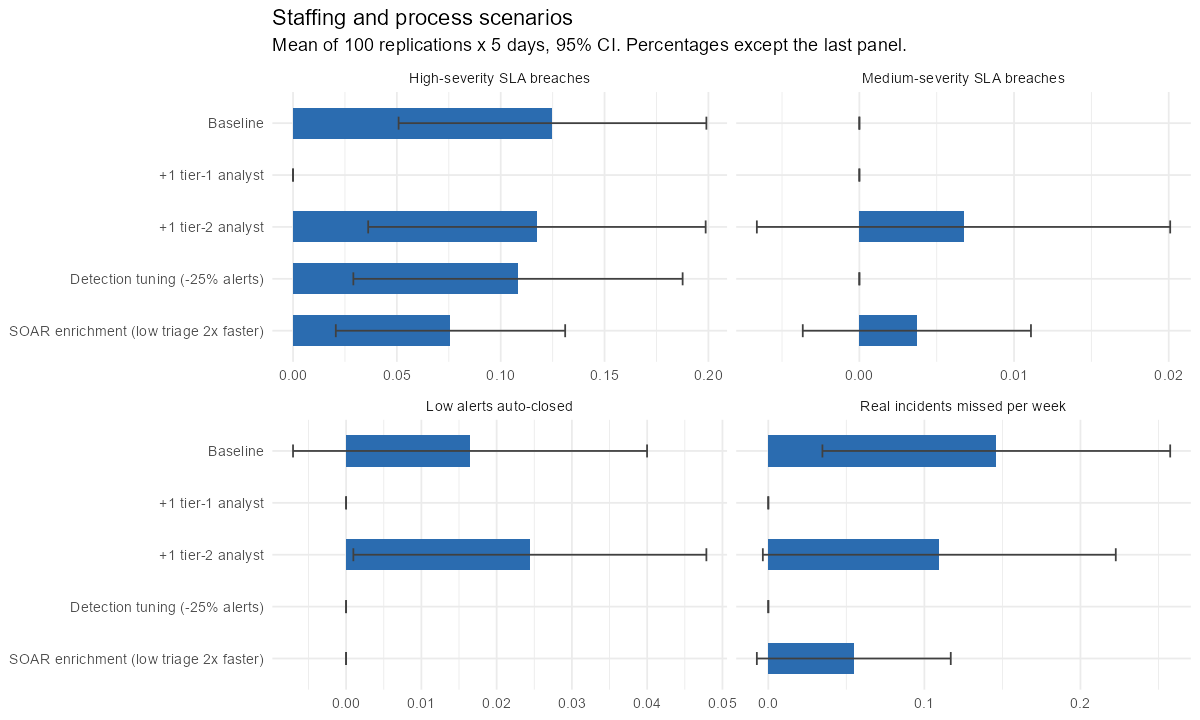
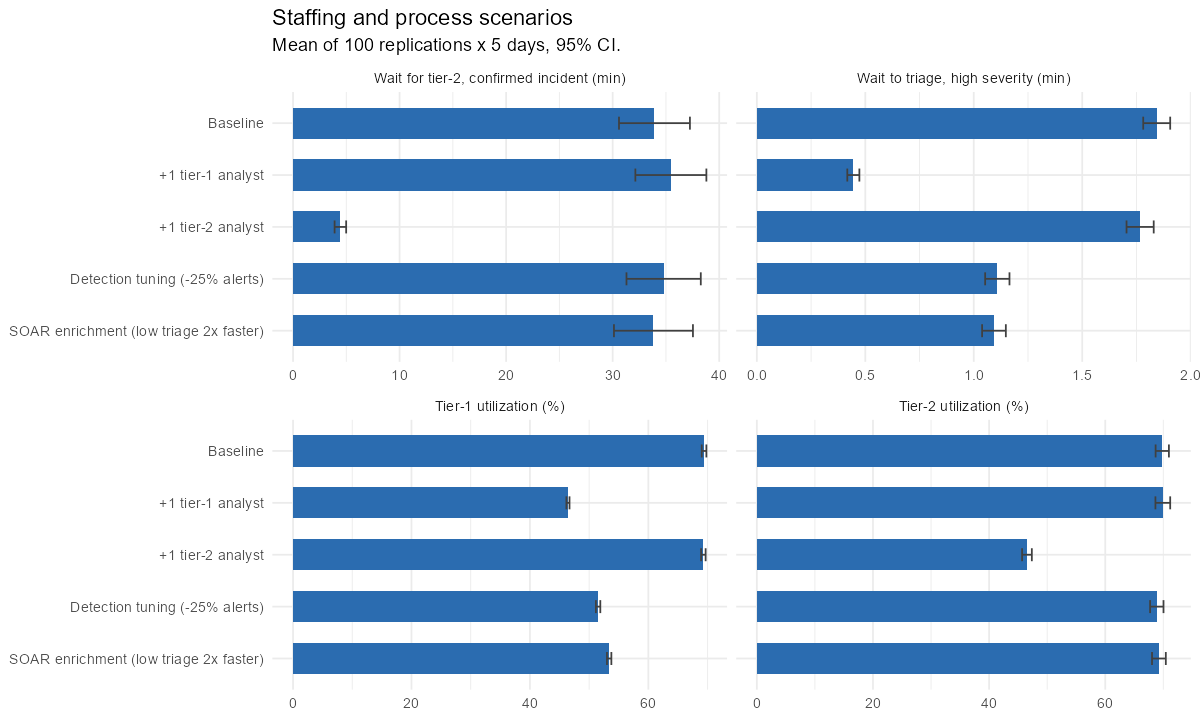
Lead with the stress test, explain the tier-1 gap, validate parameters
- README opens with the stress-test figure; the scenario figure now shows tier-2 wait,
  high-severity wait and utilization instead of four near-zero shares
- explain the simulated tier-1 wait above M/G/c (priority to the longest jobs) and that
  an extra tier-1 analyst raises tier-2 waits
- correct the seeds note: shared seeds, not common random numbers
- state that only low-severity incidents can be missed, the unreachable low SLA, seats vs FTE
- validate_params() before every run, with two tests (13 total)
- no automatic package install; CI lower bounds clipped at zero in results.md

diff --git a/README.md b/README.md
@@ -20,6 +20,10 @@
 - **Priority queuing hides the damage:** fewer than 2% of high-severity alerts are ever triaged late, even at 22/hour. The cost of overload falls on low-severity alerts, up to 76% of which go unreviewed, and on the real incidents among them.
 - **Improved on the coursework:** balking and reneging are now measured directly, rather than inferred from arrivals still in the system. Details: [CHANGELOG.md](CHANGELOG.md).
 
+![Stress test: where each staffing option breaks](docs/figures/stress_test.png)
+
+*Each line is a staffing option (tier-1 + tier-2 analysts); dashed lines are the service targets. Details in [Stress test](#stress-test).*
+
 ---
 
 ## Approach
@@ -60,10 +64,12 @@ flowchart LR
 | Priorities | High > medium > low in both queues (non-preemptive) |
 | Ground truth | Each alert's "real incident" flag is drawn on arrival but only revealed at triage, so the model can count real incidents that were auto-closed or expired: the cost of overload |
 | Run length | 5 days per replication; day 1 discarded as warm-up; alerts from the last 4 hours excluded (outcome not yet known) |
-| Variance reduction | Replication *i* uses the same seed in every scenario (common random numbers) |
+| Seeds | Replication *i* uses the same seed in every scenario. This is not common random numbers: all draws share one random stream in event order, so the scenarios drift apart once staffing changes the order of events. Scenarios are compared on independent confidence intervals |
 | Censoring | An alert still waiting at the end counts as an SLA breach only if it has already waited past the SLA |
+| What can be missed | Only low-severity alerts are auto-closed or expire, so "real incidents missed" means real incidents among low-severity alerts (5% of them). High and medium alerts can only be late. Low alerts expire within 120 minutes, so their 240-minute SLA is never reached |
+| Analysts | "2 + 2" means two analysts on duty in each tier at all times. Covering one seat 24/7 takes about 4.2 full-time staff (8,760 hours a year ÷ 2,080 paid hours, before leave and training), so the baseline is about 17 FTE and each extra seat about 4 more |
 
-All parameters live in [`R/params.R`](R/params.R) and are **illustrative**.
+All parameters live in [`R/params.R`](R/params.R) and are **illustrative**. Every scenario is checked by `validate_params()` ([`R/validate.R`](R/validate.R)) before it runs.
 
 ## Results
 
@@ -95,7 +101,7 @@ Already a useful read: **tier-2 is the slower queue** (36 min average wait for a
 | Tier-1 utilization | 69.4% | 46.4% | 69.3% | 51.5% | 53.4% |
 | Tier-2 utilization | 69.8% | 69.9% | 46.5% | 68.9% | 69.2% |
 
-![Scenario comparison](docs/figures/scenario_comparison.png)
+![Scenario comparison: tier-2 wait, high-severity triage wait and utilization by scenario](docs/figures/scenario_comparison.png)
 
 - **Tier-2 is the bottleneck.** A confirmed incident waits about 34 minutes for an investigator unless tier-2 gets another analyst. Detection tuning and SOAR enrichment cut tier-1 load but don't change the number of real incidents, so they don't help here.
 - **Tier-1 already meets its SLAs.** An extra tier-1 analyst cuts high-severity triage from 1.8 to 0.4 minutes, but high-severity SLA breaches are already only 0.1%.
@@ -112,11 +118,10 @@ The alert rate is swept from 10 to 22 per hour for four staffing options, with e
 | 2 + 3 (+1 tier-2) | 14.4 / 21.4 | 12 | 14 | Missed incidents (7.5/week) |
 | 3 + 3 (+1 each) | 21.6 / 21.4 | **18** | 20 | Tier-2 wait (98 min) and missed incidents (4.1/week) |
 
-"Capacity" is the alert rate at which a tier would be 100% busy if no alert were dropped: 7.2 alerts/hour per tier-1 analyst (8.3 minutes of triage per alert on average) and 7.1 per tier-2 analyst (14% of alerts are real incidents, 60 minutes each).
-
-![Stress test](docs/figures/stress_test.png)
+"Capacity" is the alert rate at which a tier would be 100% busy if no alert were dropped: 7.2 alerts/hour per tier-1 analyst (8.3 minutes of triage per alert on average) and 7.1 per tier-2 analyst (14% of alerts are real incidents, 60 minutes each). The figure is at the top of this page.
 
 - **Fixing one tier exposes the other.** An extra tier-1 analyst buys nothing on its own: tier-2 still breaks at 12 alerts/hour. An extra tier-2 analyst buys one step, to 12/hour; then tier-1 starts auto-closing low-severity alerts and real incidents go with them.
+- **A faster tier-1 makes tier-2 worse.** At 12 alerts/hour a confirmed incident waits 100 minutes for tier-2 with 3 + 2 analysts, against 70 with 2 + 2: the extra tier-1 analyst drops fewer alerts, so more real incidents reach tier-2. The reverse also holds: the 2 + 3 team's tier-2 wait stays under target up to 22 alerts/hour partly because tier-1 is auto-closing up to 75% of low-severity alerts, and the real incidents among them never reach tier-2. A good tier-2 number can be bought by missing incidents upstream.
 - **Each option breaks well below its capacity.** Waits climb steeply as utilization approaches 100%, so the 2 + 2 team breaks at about 84% of tier-2 capacity. Staffing to the average load isn't enough.
 - **Priority queuing protects high-severity alerts.** Under every option, fewer than 2% of high-severity alerts are triaged late, even at 22/hour. Overload shows up instead as unreviewed low-severity alerts (up to 76%) and missed incidents (up to 86 a week).
 - **Breaking points are approximate at the edges.** They're judged on the mean of 30 replications, and the confidence intervals at the boundary straddle the target (for example, 3 + 3 at 18/hour waits 51 minutes, with a CI of 39–63). Past tier-2 capacity the queue grows without limit, so the waits reported there depend on the 5-day run length.
@@ -129,9 +134,9 @@ Per-rate tables for every metric: [`docs/results.md`](docs/results.md#3-stress-t
 
 | Component | Status |
 |---|---|
-| Metrics (`R/metrics.R`) | 11/11 tests pass on hand-built monitor tables (outcomes, censored SLA breaches, missed incidents, warm-up window, time-weighted utilization, CIs) |
+| Metrics and parameters (`R/metrics.R`, `R/validate.R`) | 13/13 tests pass: 11 on hand-built monitor tables (outcomes, censored SLA breaches, missed incidents, warm-up window, time-weighted utilization, CIs) and 2 on parameter validation |
 | Analytic check | Runs; all scenarios stable (utilization < 1) |
-| Simulation (`R/model.R`, scripts 01–02) | Runs (about a minute). Agrees with the analytic check: utilization 69.4% / 69.8% vs. 69% / 70%; tier-2 wait 33.9 min (CI 30.6–37.3) vs. 36.0; baseline tier-1 wait 5.2 min (weighted across severities) vs. 4.7. The tier-1 wait is slightly higher, not lower as expected beforehand, but well within the same ballpark; a several-fold gap would have pointed to a bug |
+| Simulation (`R/model.R`, scripts 01–02) | Runs (about a minute). Agrees with the analytic check: utilization 69.4% / 69.8% vs. 69% / 70%; tier-2 wait 33.9 min (CI 30.6–37.3) vs. 36.0; baseline tier-1 wait 5.2 min (weighted across severities) vs. 4.7. The simulated tier-1 wait is higher because of priorities: high-severity alerts go first and take the longest to triage (13 minutes on average vs. 6 for low), and serving long jobs first raises the average wait. A one-off run with priorities switched off gave 4.8 minutes, matching the formula |
 | Stress test (script 03) | Runs (about 2.5 minutes). Behaves as queueing theory predicts: every option breaks below the capacity computed from first principles, and the tier that breaks first is the one with less spare capacity |
 
 Improvements over the original coursework (direct balking and reneging measurement, independent replications) are documented in [CHANGELOG.md](CHANGELOG.md).
@@ -145,7 +150,7 @@ Improvements over the original coursework (direct balking and reneging measureme
 
 ### Install
 
-Missing packages are installed automatically the first time you run the scripts; an interactive R session (RStudio, VS Code) asks first. The list lives in [`r-packages.txt`](r-packages.txt). To install everything up front instead:
+The packages are listed in [`r-packages.txt`](r-packages.txt). Nothing is installed automatically: if one is missing, the scripts stop and print the command to install it. To install everything up front:
 
 ```r
 install.packages(c("simmer", "ggplot2"))
@@ -160,17 +165,18 @@ Rscript run_all.R              # analytic check + simulation + report
 
 ### Output
 
-About 3.5 minutes. `run_all.R` writes the scenario comparison, the stress test and all figures to `docs/results.md`; per-replication and stress-test tables go to `outputs/` (git-ignored). If you decline the package install, `run_all.R` stops before running anything.
+About 3.5 minutes. `run_all.R` writes the scenario comparison, the stress test and all figures to `docs/results.md`; per-replication and stress-test tables go to `outputs/` (git-ignored). If a package is missing, `run_all.R` stops before running anything.
 
 ## Repository structure
 
 ```
 soc-alert-triage-simulation/
 ├── run_all.R                    # analytic check, simulation, report
-├── r-packages.txt               # R packages (installed automatically if missing)
+├── r-packages.txt               # R packages used
 ├── R/
-│   ├── check_packages.R         # installs missing packages from r-packages.txt
+│   ├── check_packages.R         # stops with install instructions if a package is missing
 │   ├── params.R                 # all parameters, scenarios and stress-test settings
+│   ├── validate.R               # parameter checks run before every simulation
 │   ├── model.R                  # simmer trajectories (one env per replication)
 │   ├── metrics.R                # monitor tables → per-alert outcomes → metrics + CIs
 │   └── report.R                 # markdown report helpers
@@ -179,7 +185,7 @@ soc-alert-triage-simulation/
 │   ├── 01_simulate.R            # 5 scenarios x 100 replications
 │   ├── 02_analyze.R             # tables + figures
 │   └── 03_stress_test.R         # alert-rate sweep x 4 staffing options
-├── tests/test_metrics.R         # 11 checks on hand-built monitor tables
+├── tests/test_metrics.R         # 13 checks: metrics on hand-built monitor tables, parameter validation
 └── docs/results.md              # generated
 ```
 

diff --git a/docs/results.md b/docs/results.md
@@ -22,10 +22,10 @@ Ignores priorities, auto-closing and expiry. Waits are in minutes.
 |---|---|---|---|---|---|
 | Mean wait to triage, high (min) | 1.8 (1.8–1.9) | 0.4 (0.4–0.5) | 1.8 (1.7–1.8) | 1.1 (1.1–1.2) | 1.1 (1.0–1.1) |
 | High alerts missing 15-min SLA | 0.1% (0.1–0.2) | 0.0% (0.0–0.0) | 0.1% (0.0–0.2) | 0.1% (0.0–0.2) | 0.1% (0.0–0.1) |
-| Medium alerts missing 60-min SLA | 0.0% (0.0–0.0) | 0.0% (0.0–0.0) | 0.0% (-0.0–0.0) | 0.0% (0.0–0.0) | 0.0% (-0.0–0.0) |
-| Low alerts auto-closed (backlog) | 0.0% (-0.0–0.0) | 0.0% (0.0–0.0) | 0.0% (0.0–0.0) | 0.0% (0.0–0.0) | 0.0% (0.0–0.0) |
-| Low alerts expired unreviewed | 0.2% (0.1–0.3) | 0.0% (0.0–0.0) | 0.2% (0.1–0.3) | 0.0% (-0.0–0.0) | 0.1% (0.0–0.1) |
-| Real incidents missed / week | 0.1 (0.0–0.3) | 0.0 (0.0–0.0) | 0.1 (-0.0–0.2) | 0.0 (0.0–0.0) | 0.1 (-0.0–0.1) |
+| Medium alerts missing 60-min SLA | 0.0% (0.0–0.0) | 0.0% (0.0–0.0) | 0.0% (0.0–0.0) | 0.0% (0.0–0.0) | 0.0% (0.0–0.0) |
+| Low alerts auto-closed (backlog) | 0.0% (0.0–0.0) | 0.0% (0.0–0.0) | 0.0% (0.0–0.0) | 0.0% (0.0–0.0) | 0.0% (0.0–0.0) |
+| Low alerts expired unreviewed | 0.2% (0.1–0.3) | 0.0% (0.0–0.0) | 0.2% (0.1–0.3) | 0.0% (0.0–0.0) | 0.1% (0.0–0.1) |
+| Real incidents missed / week | 0.1 (0.0–0.3) | 0.0 (0.0–0.0) | 0.1 (0.0–0.2) | 0.0 (0.0–0.0) | 0.1 (0.0–0.1) |
 | Wait for tier-2 (min) | 33.9 (30.6–37.3) | 35.5 (32.1–38.8) | 4.4 (3.9–5.0) | 34.8 (31.3–38.3) | 33.8 (30.1–37.5) |
 | Tier-1 utilization | 69.4% (69.0–69.8) | 46.4% (46.2–46.7) | 69.3% (68.9–69.7) | 51.5% (51.1–51.9) | 53.4% (53.0–53.8) |
 | Tier-2 utilization | 69.8% (68.7–71.0) | 69.9% (68.6–71.2) | 46.5% (45.7–47.4) | 68.9% (67.7–70.0) | 69.2% (68.1–70.4) |

diff --git a/CHANGELOG.md b/CHANGELOG.md
@@ -19,6 +19,10 @@ materials are not included; the model was rewritten from scratch.
 - Trajectories are built per replication, so each run is independent.
 - Base-R triangular sampler and ggplot2 figures (fewer dependencies).
 - Added warm-up and cool-down windows, censoring-aware SLA metrics, an analytic M/G/c cross-check, metric tests, `run_all.R` and the generated report.
+- Stress-test figure leads the README; the scenario figure now shows the metrics that differ at baseline load (tier-2 wait, high-severity wait, utilization).
+- Explained why the simulated tier-1 wait is above the M/G/c estimate (priority to the longest jobs), and that an extra tier-1 analyst raises tier-2 waits.
+- Corrected the seeds note: shared seeds per replication, not common random numbers.
+- Parameter validation before every run, with tests; no automatic package installs; CI lower bounds clipped at zero.
 
 **Not included**
 - Course-provided materials and the standalone homework problems.
